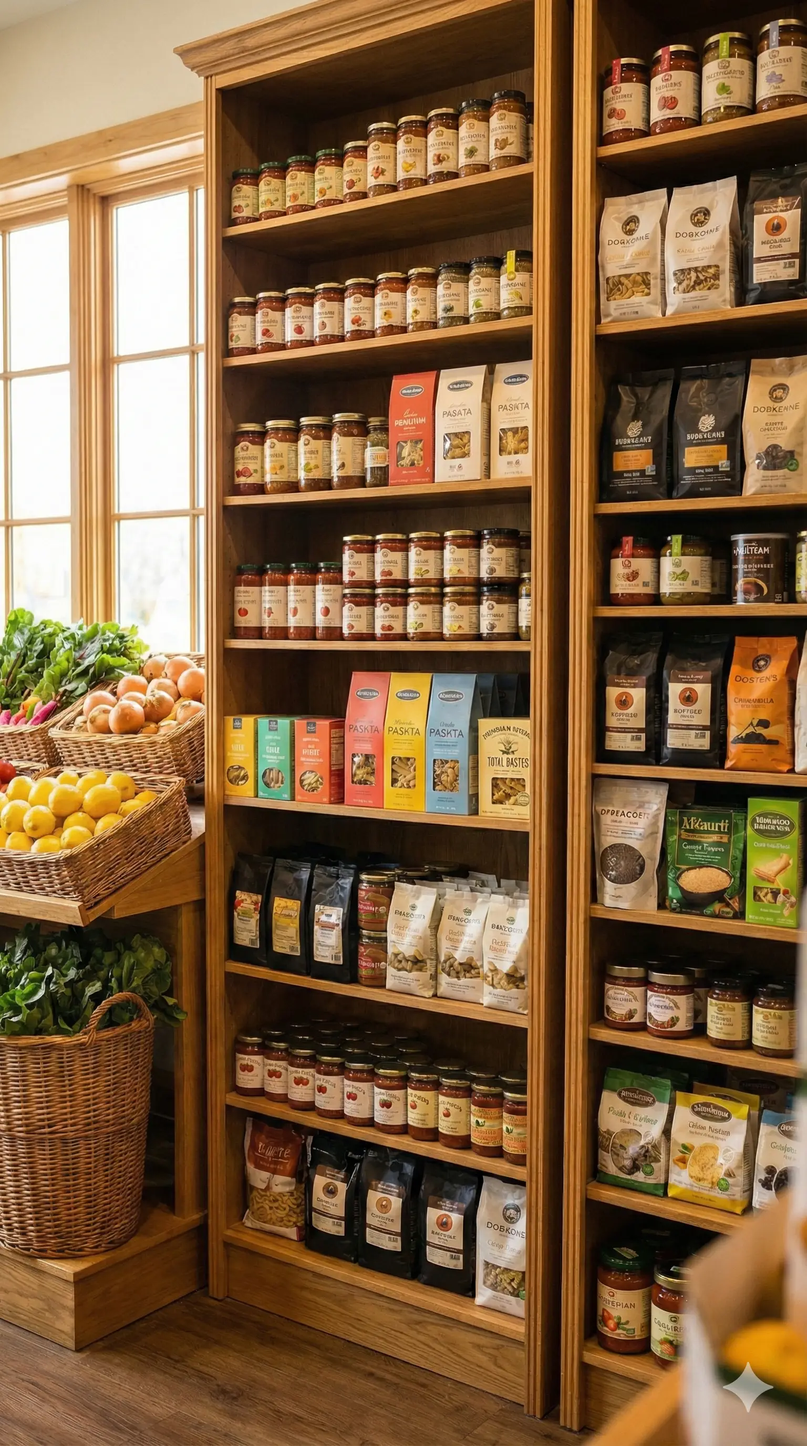
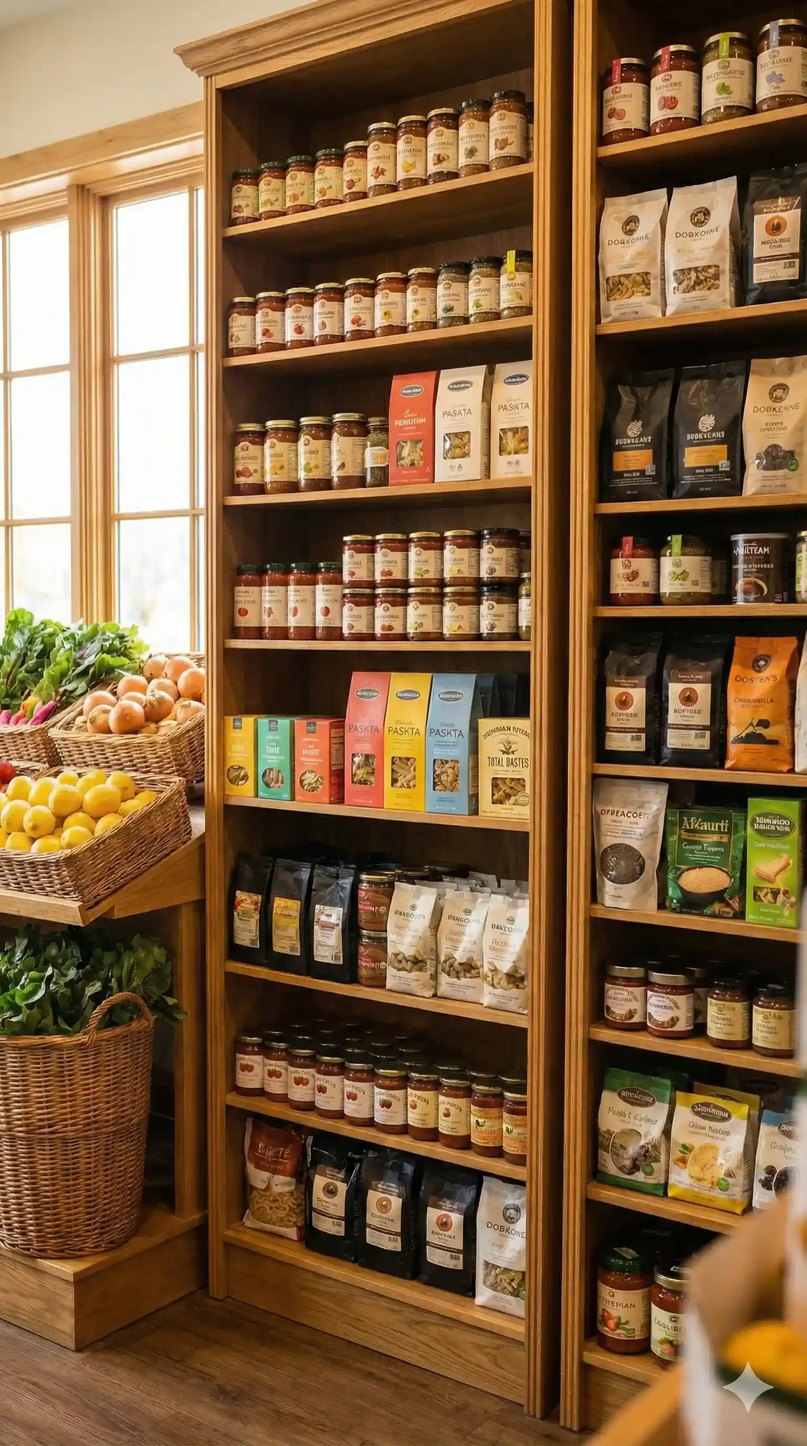
Actualizacion automatica de precios y stock - mié 18/11/2026 23:54:05,88

diff --git a/src/app/App.tsx b/src/app/App.tsx
@@ -30,7 +30,7 @@ export default function App() {
     const loadData = async () => {
       try {
         // Fetch al archivo generado por tu script en public/data/products.json
-        const response = await fetch('/data/products.json');
+        const response = await fetch(`/data/products.json?v=${Date.now()}`);
         if (!response.ok) throw new Error('No se pudo cargar el catálogo');
         const data = await response.json();
         setProducts(data);
@@ -129,7 +129,9 @@ export default function App() {
                 selectedCategory={selectedCategory}
                 onSelectCategory={setSelectedCategory}
               />
-              <PromoBanners />
+              {selectedCategory === 'Todas' && searchTerm.trim() === '' && (
+                <PromoBanners />
+              )}
             </div>
 
             {/* Carrusel de Ofertas */}

diff --git a/src/app/components/PromoBanners.tsx b/src/app/components/PromoBanners.tsx
@@ -4,7 +4,7 @@ export function PromoBanners() {
       <div className="grid grid-cols-1 md:grid-cols-2 gap-6">
         <div className="overflow-hidden rounded-2xl shadow-md bg-white">
           <img
-            src="/img/promo-tionico.png"
+            src="/img/promo-tionico.webp"
             alt="Representación Tío Nico - Variedad de fideos"
             className="w-full h-auto object-cover block"
             loading="lazy"
@@ -13,7 +13,7 @@ export function PromoBanners() {
 
         <div className="overflow-hidden rounded-2xl shadow-md bg-white">
           <img
-            src="/img/promo-borso.png"
+            src="/img/promo-borso.webp"
             alt="Sabores disponibles Borso - Menta y Piña Colada"
             className="w-full h-auto object-cover block"
             loading="lazy"
